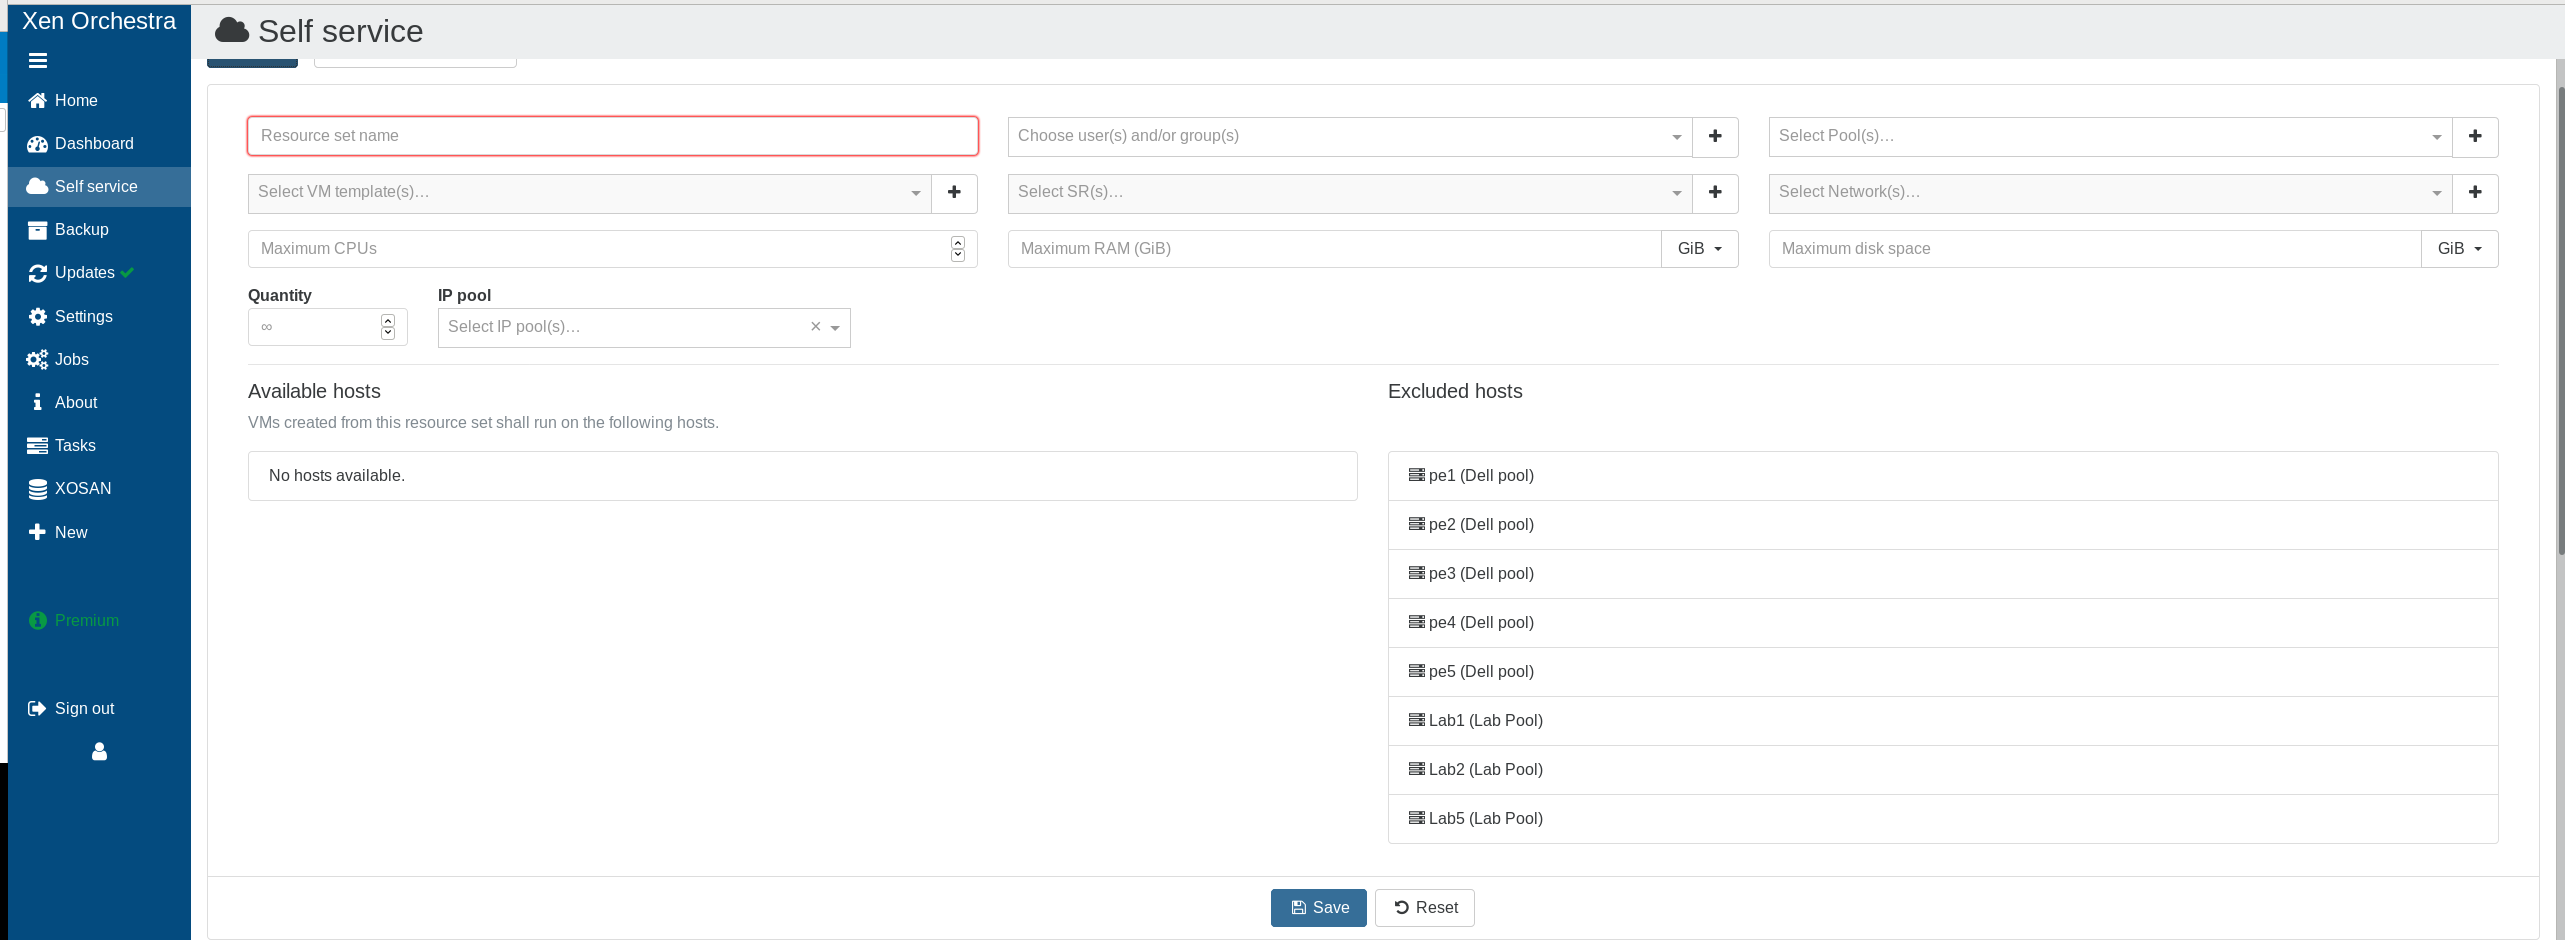
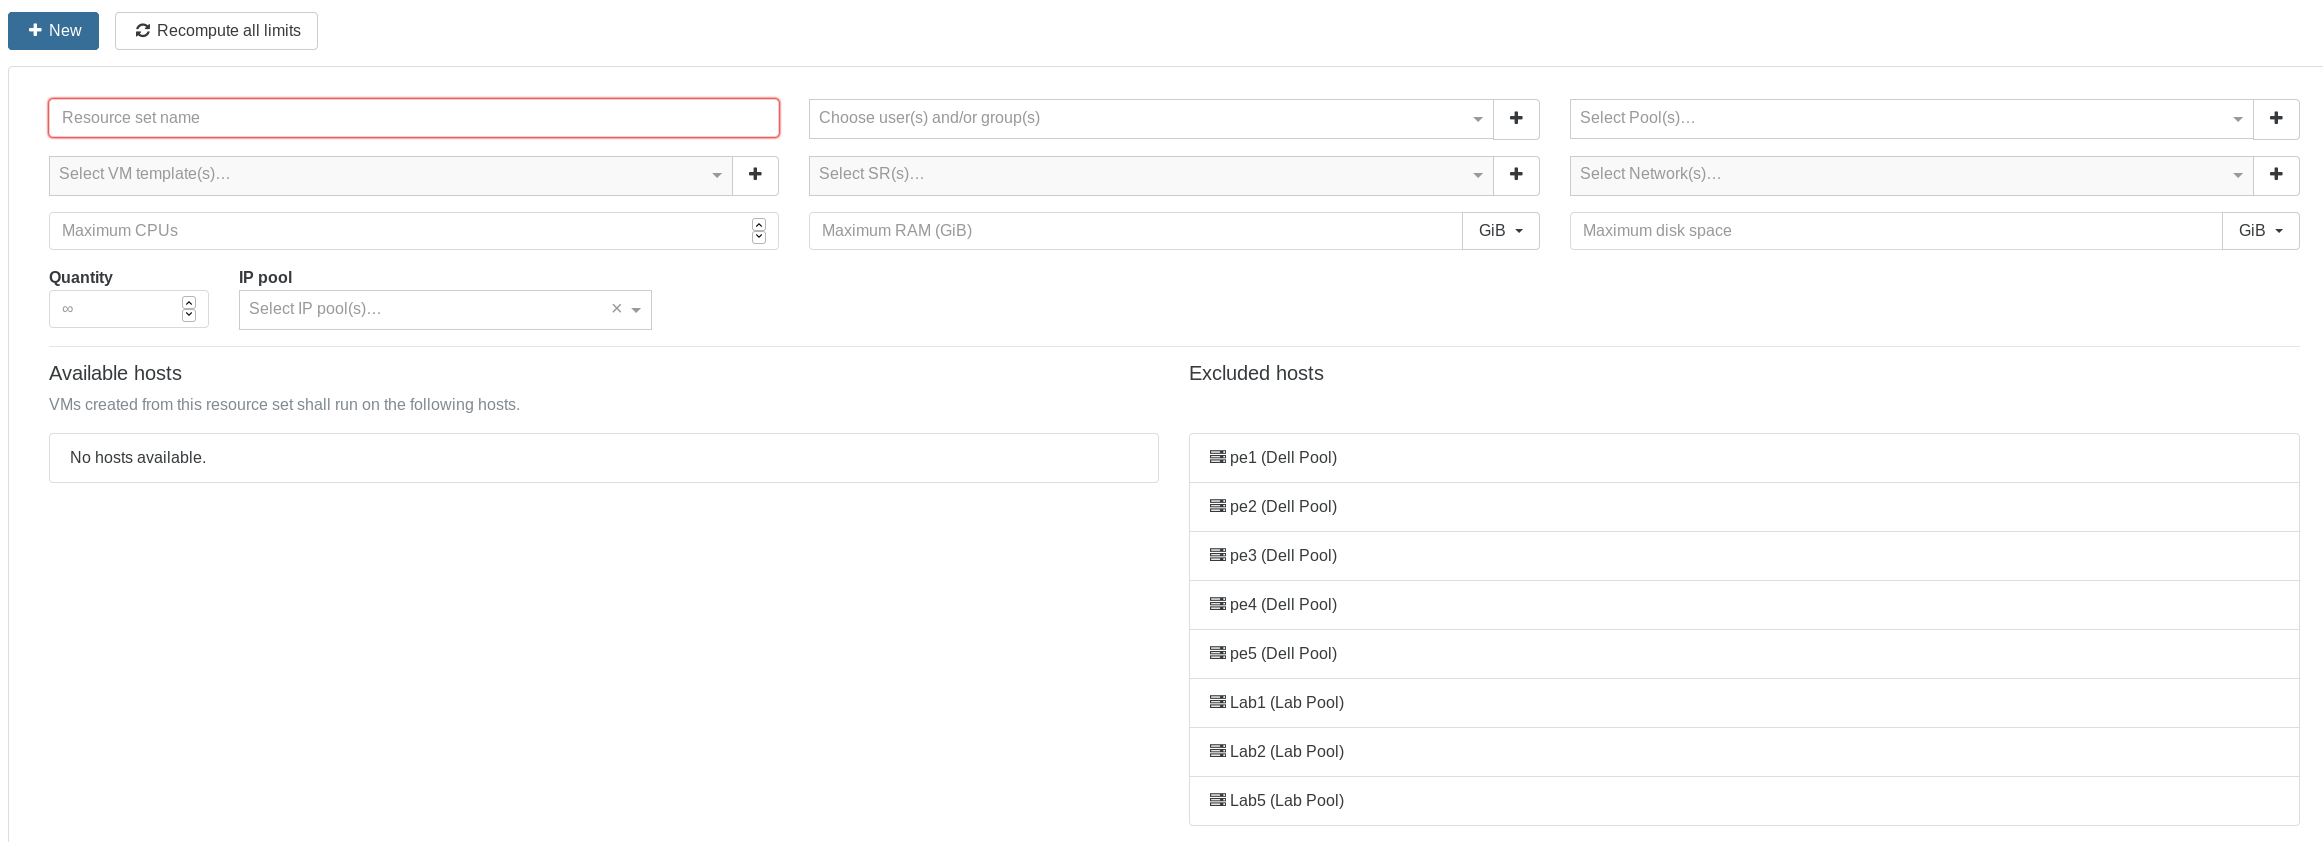
chore(self service): new screenshots (#107)

diff --git a/docs/self_service.md b/docs/self_service.md
@@ -40,21 +40,21 @@ Then, you can define quotas on this set:
 
 When you click on create, you can see the resource set and remove or edit it:
 
-![](https://xen-orchestra.com/blog/content/images/2016/02/selfservice_recap_quotas.png)
+![](./assets/selfservice_recap_quotas.png)
 
 ## Usage (user side)
 
-As soon a user is inside a resource set, it displays a new button in its main view: the gree icon with the "plus" sign:
+As soon a user is inside a resource set, it displays a new button in its main view: "new". 
 
-![](./assets/selfservice_newvm.png)
+![](./assets/selfservice_new_vm.png)
 
 Now, the user can create a VM with only the resources given in the set:
 
-![](./assets/selfservice_createvm.png)
+![](./assets/selfservice_create_vm.png)
 
 And the recap before creation:
 
-![](https://xen-orchestra.com/blog/content/images/2016/02/selfservice_summary_quotas.png)
+![](./assets/selfservice_summary_quotas.png)
 
 If the "Create" button is disabled, it means the user requested more resources than available.
 
